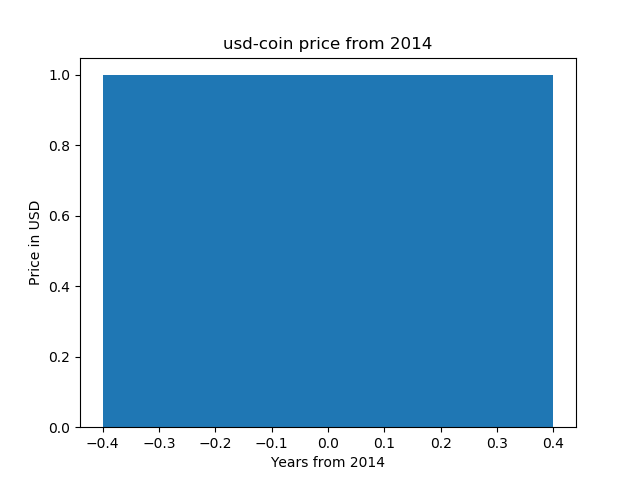
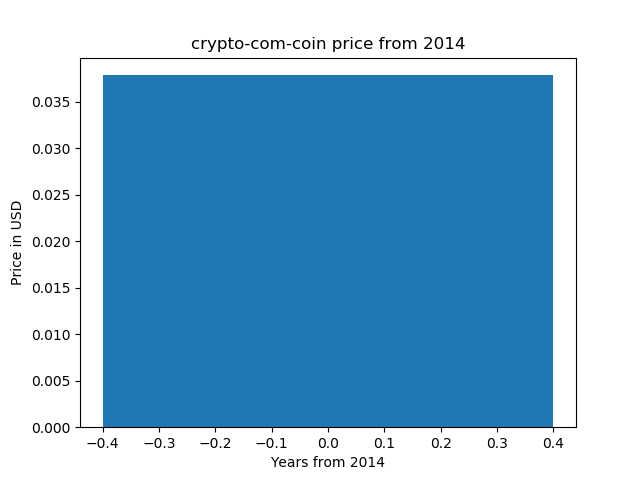
first commit

diff --git a/example.py b/example.py
@@ -10,7 +10,7 @@ from time import gmtime, strftime
 import matplotlib.pyplot as plt
 
 enddate = strftime("%Y%m%d", gmtime())
-r  = requests.get("https://coinmarketcap.com/currencies/usd-coin/historical-data/?start=20140101&end={0}".format(enddate))
+r  = requests.get("https://coinmarketcap.com/currencies/crypto-com-coin/historical-data/?start=20140101&end={0}".format(enddate))
 data = r.text
 
 soup = BeautifulSoup(data, "html.parser")
@@ -44,7 +44,7 @@ print(x)
 
 x = list(range(0, len(prices)))
 
-plt.title('usd-coin price from 2014')
+plt.title('crypto-com-coin price from 2014')
 plt.ylabel('Price in USD')
 plt.xlabel('Years from 2014')
 plt.bar(x, prices)

diff --git a/README.md b/README.md
@@ -1,6 +1,6 @@
-# usd-coin price chart 
+# crypto-com-coin price chart 
 
-usd-coin price chart (matplotlib, python)
+crypto-com-coin price chart (matplotlib, python)
 
 https://pythonprogramminglanguage.com
 
